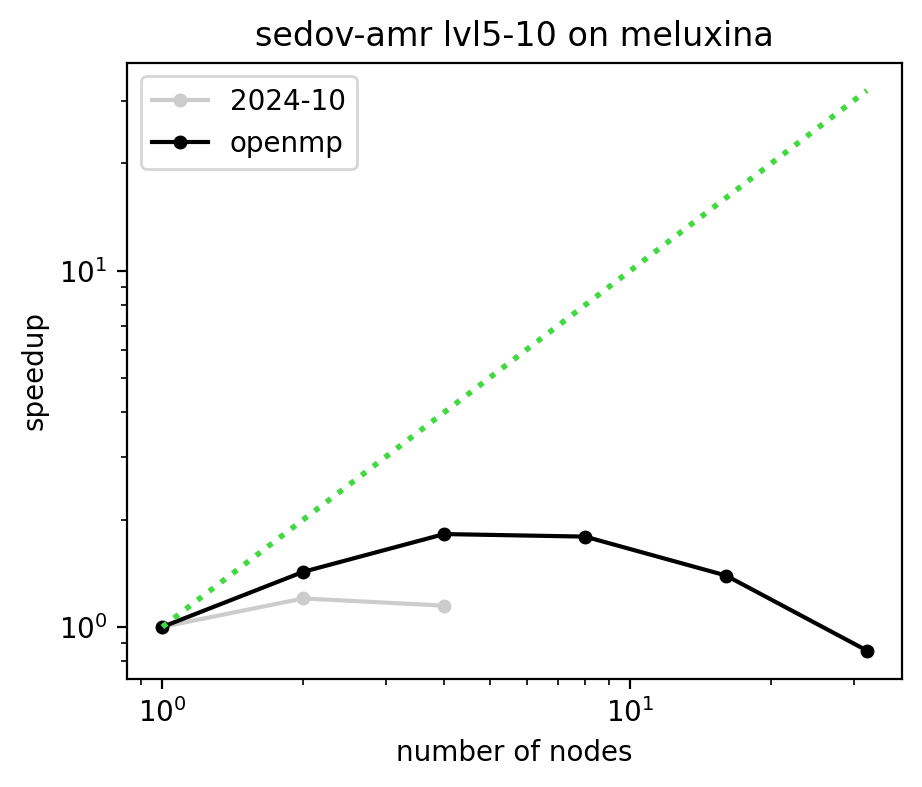
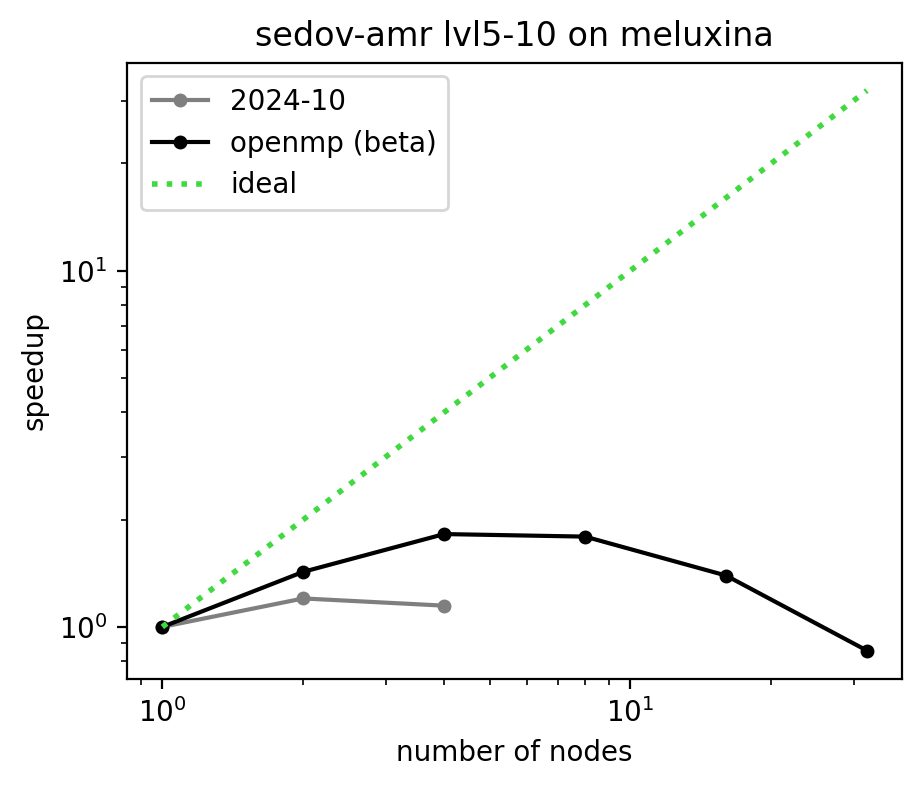
update report sedov-amr on meluxina

diff --git a/results/results_sedov-amr_meluxina.md b/results/results_sedov-amr_meluxina.md
@@ -1,22 +1,97 @@
-# Benchmark results: sedov-amr on meluxina
+# Benchmark: sedov-amr on meluxina
 
-## Strong scaling figure
+Benchmark description: [sedov-amr](../setups/sedov-amr/description.md)
+
+Cluster info: [meluxina](../HPCclusters/meluxina/cluster_description.md)
+
+On this page:
+* [if unigrid] Strong and weak scaling of the latest code release (figure)
+* Evolution of execution time with code version (figure & table with speedup)
+* Strong scaling evolution (figure & table with efficiency)
+* [if unigrid] Weak scaling evolution (figure & table with efficiency)
+* Optimal MPI-OpenMP configuration (figures)
+* Memory usage (figure & table)
+
+## Evolution of execution time with code version
+
+![Evolution execution time](../results/images/evo_exectime_sedov-amr_lvl5-10_total_meluxina.png)
+
+This figure shows the execution time for different versions of the code.
+To guide the eye, the dotted line shows the time for the oldest version.
+The table lists the time values, which are an average of multiple runs.
+The last column informs of the speedup of the last version with 
+respect to the first listed version. Unless otherwise stated,
+the time listed is for runs with MPI-only using the full compute node.
+
+| nodes | 2024-10 | openmp (beta) | Δ [%] |
+|---|---|---|---|
+| 1 | 149.19 | 102.96 (MPI=32 OMP=4) | 31.0 |
+| 2 | 124.12 | 72.13 (MPI=16 OMP=8) | 41.9 |
+| 4 | 130.04 | 56.51 (MPI=16 OMP=8) | 56.5 |
+| 8 | - | 57.44 (MPI=16 OMP=8) | - |
+| 16 | - | 73.87 (MPI=16 OMP=8) | - |
+| 32 | - | 119.95 (MPI=16 OMP=8) | - |
+| 64 | - | - | - |
+
+
+## Strong scaling evolution
 
 ![Strong scaling](../results/images/strong_scaling_sedov-amr_lvl5-10_total_meluxina.png)
 
-## Strong scaling efficiency table
+This figure shows the strong scaling for different versions of the code.
+The underlying timings are those from the previous section.
+Ideal scaling is shown as a dotted line.
+The table lists the corresponding strong scaling efficiency,
+with respect to the minimal number of nodes.
+Unless otherwise stated, data is for runs with MPI-only 
+using the full compute node.
 
-| nodes | 2024-10 | 2025-05 | 2025-10 | 2026-05 | openmp |
+| nodes | 2024-10 | openmp (beta) |
+|---|---|---|
+| 1 | 1.000 | 1.000 (MPI=32 OMP=4) |
+| 2 | 0.601 | 0.714 (MPI=16 OMP=8) |
+| 4 | 0.287 | 0.455 (MPI=16 OMP=8) |
+| 8 | - | 0.224 (MPI=16 OMP=8) |
+| 16 | - | 0.087 (MPI=16 OMP=8) |
+| 32 | - | 0.027 (MPI=16 OMP=8) |
+
+
+## OpenMP configuration guidelines
+    
+The figures below give inside in the behaviour of OpenMP for different resolutions of this setup.
+Shows is which MPI - OpenMP configuration is most optimal in terms of execution time.
+The data is for the latest OpenMP version 
+(commit e9846974 on branch openmp)
+, corresponding to the version used for the previous figures.
+
+![MPI-OMP](../results/images/mpi_omp_grid_sedov-amr_lvl5-10_total_meluxina.png)
+## Memory usage
+
+![Memory usage](../results/images/memory_sedov-amr_lvl5-10_meluxina.png)
+
+This figure shows the approximate memory per node needed to perform the simulation,
+as derived from the log-file outputted by the code. Remark that the actual memory
+allocated for the run on the node will be higher, depending on the percentage of 
+the allocated ngridmax grids is actually used.
+We show the consumption for a different number of OpenMP threads. 
+Memory consumption is lower with OMP, due to
+the reduced number of ghostzone cells needed to describe the boundaries of the 
+MPI-domains.
+
+The table lists the corresponding memory values in GB.
+The last column lists the improvement of the OpenMP version with respect to the 
+MPI-only version, that is the most optimistic fraction of the MPI-only memory that is needed 
+when running with hybrid parallelisation.
+
+Unless otherwise stated, data is for runs using full compute nodes.
+
+| nodes | MPI-only | OMP=2 | OMP=4 | OMP=8 | best |
 |---|---|---|---|---|---|
-| 1 | 1.000 (MPI=128 OMP=0) |  |  |  | 1.000 (MPI=32 OMP=4) |
-| 2 | 0.601 (MPI=128 OMP=0) |  |  |  | 0.714 (MPI=16 OMP=8) |
-| 4 | 0.287 (MPI=128 OMP=0) |  |  |  | 0.455 (MPI=16 OMP=8) |
-| 8 |  |  |  |  | 0.224 (MPI=16 OMP=8) |
-| 16 |  |  |  |  | 0.087 (MPI=16 OMP=8) |
-| 32 |  |  |  |  | 0.027 (MPI=16 OMP=8) |
+| 1 | 53.88 GB | 21.83 GB | 12.54 GB | 9.41 GB | 17.5 % |
+| 2 | 60.45 GB | 20.37 GB | 9.51 GB | 6.01 GB | 9.9 % |
+| 4 | 67.75 GB | 22.73 GB | 8.07 GB | 4.39 GB | 6.5 % |
+| 8 | - | 22.41 GB | 8.58 GB | 4.04 GB | - |
+| 16 | - | - | 8.24 GB | 3.74 GB | - |
+| 32 | - | - | - | 3.47 GB | - |
 
-
-## MPI - OpenMP configuration on 1 node
-
-![Strong scaling](../results/images/mpi_omp_grid_sedov-amr_lvl5-10_total_meluxina.png)
 
